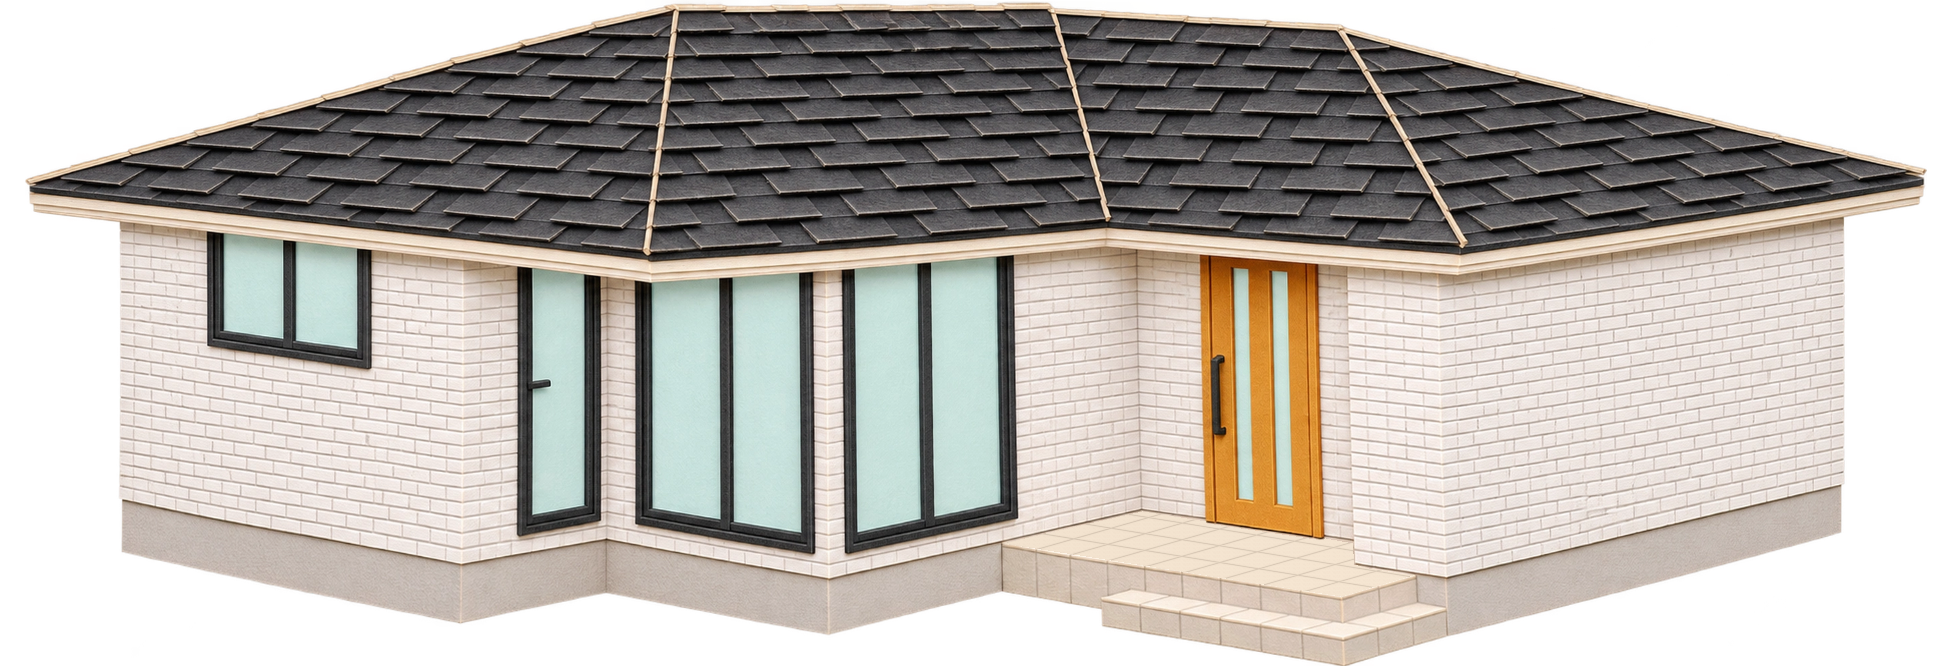
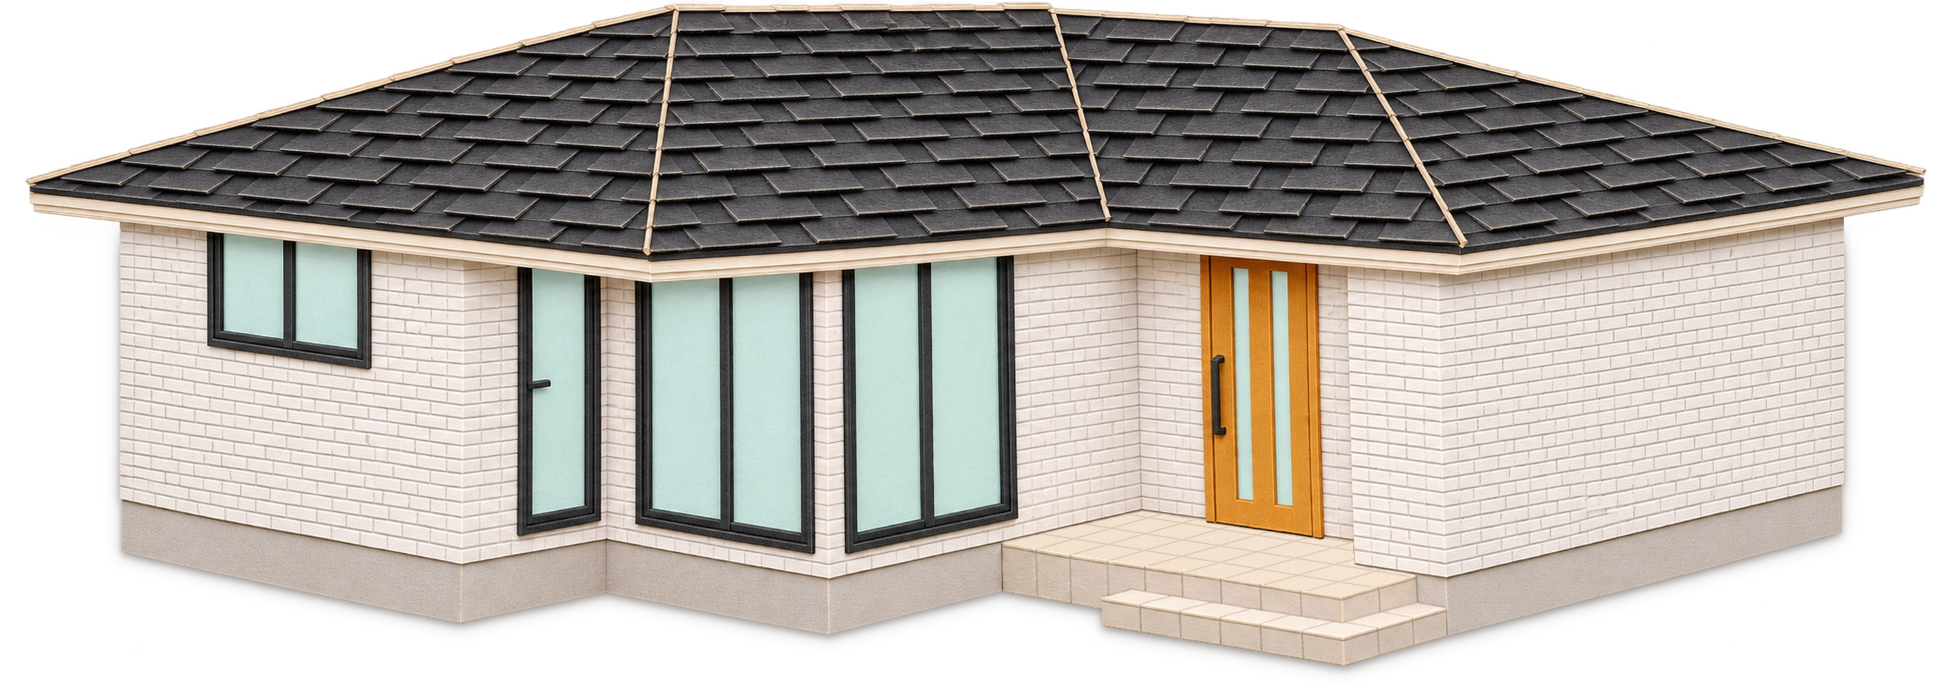
asdf

diff --git a/js/hex.js b/js/hex.js
@@ -3313,7 +3313,7 @@ hexReady(function(){
       'exterior02.webp':{originalWidth:3000,originalHeight:1854,x:289,y:698,width:1325,height:377},
       'exterior03.webp':{originalWidth:3000,originalHeight:1854,x:1899,y:658,width:804,height:393},
       'exterior04.webp':{originalWidth:3000,originalHeight:1854,x:1019,y:818,width:941,height:398},
-      'house.webp':{originalWidth:2048,originalHeight:1265,x:533,y:342,width:979,height:333},
+      'house.webp':{originalWidth:2048,originalHeight:1265,x:533,y:342,width:979,height:345},
       'pave01.webp':{originalWidth:2048,originalHeight:1265,x:530,y:525,width:1350,height:401},
       'pave02.webp':{originalWidth:3000,originalHeight:1854,x:283,y:832,width:1663,height:382},
       'pave03.webp':{originalWidth:2048,originalHeight:1265,x:799,y:592,width:1074,height:329},
@@ -5750,6 +5750,10 @@ hexReady(function(){
       var name=(layer.currentSrc||layer.src||'').split(/[?#]/)[0].split('/').pop();
       var crop=HERO_LAYER_CROPS[name];
       // Older house exports can still be served from the browser cache.
+      if(name==='house.webp'&&((layer.naturalWidth===1958&&layer.naturalHeight===666)||
+        (layer.naturalWidth===979&&layer.naturalHeight===333))){
+        return {originalWidth:2048,originalHeight:1265,x:533,y:342,width:979,height:333};
+      }
       if(name==='house.webp'&&((layer.naturalWidth===2880&&layer.naturalHeight===982)||
         (layer.naturalWidth===1440&&layer.naturalHeight===491))){
         return {originalWidth:3000,originalHeight:1854,x:777,y:508,width:1440,height:491};
